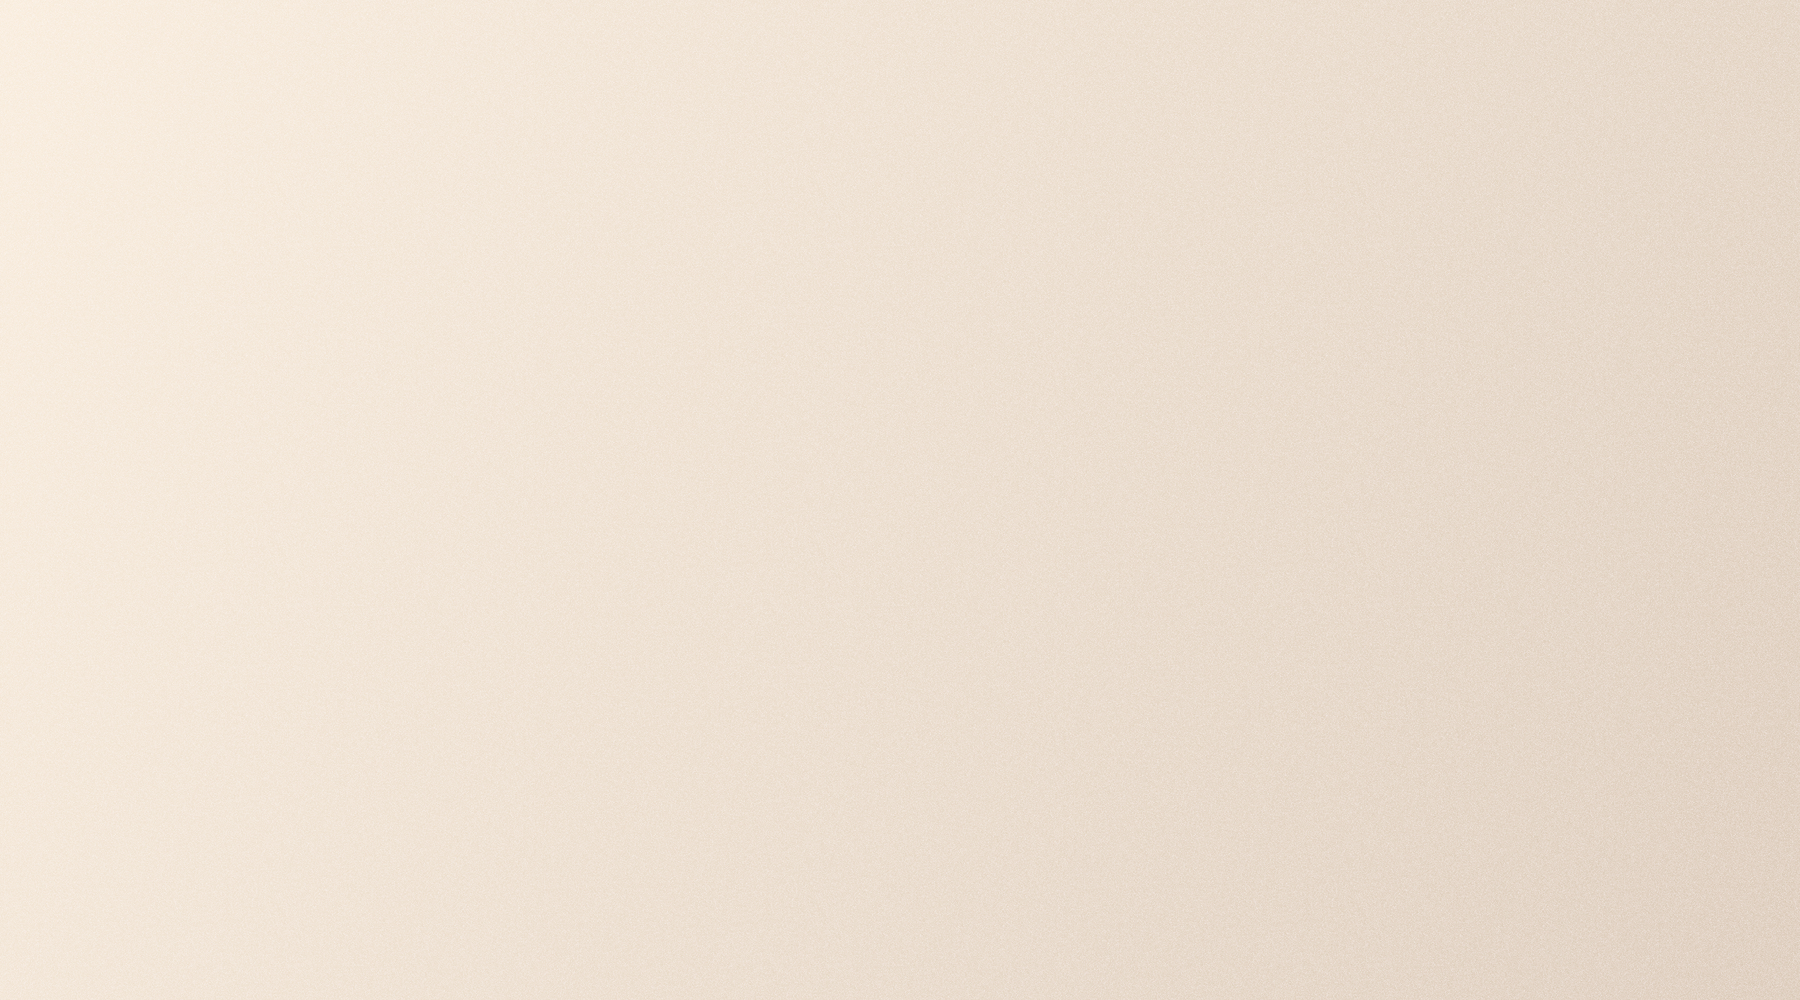
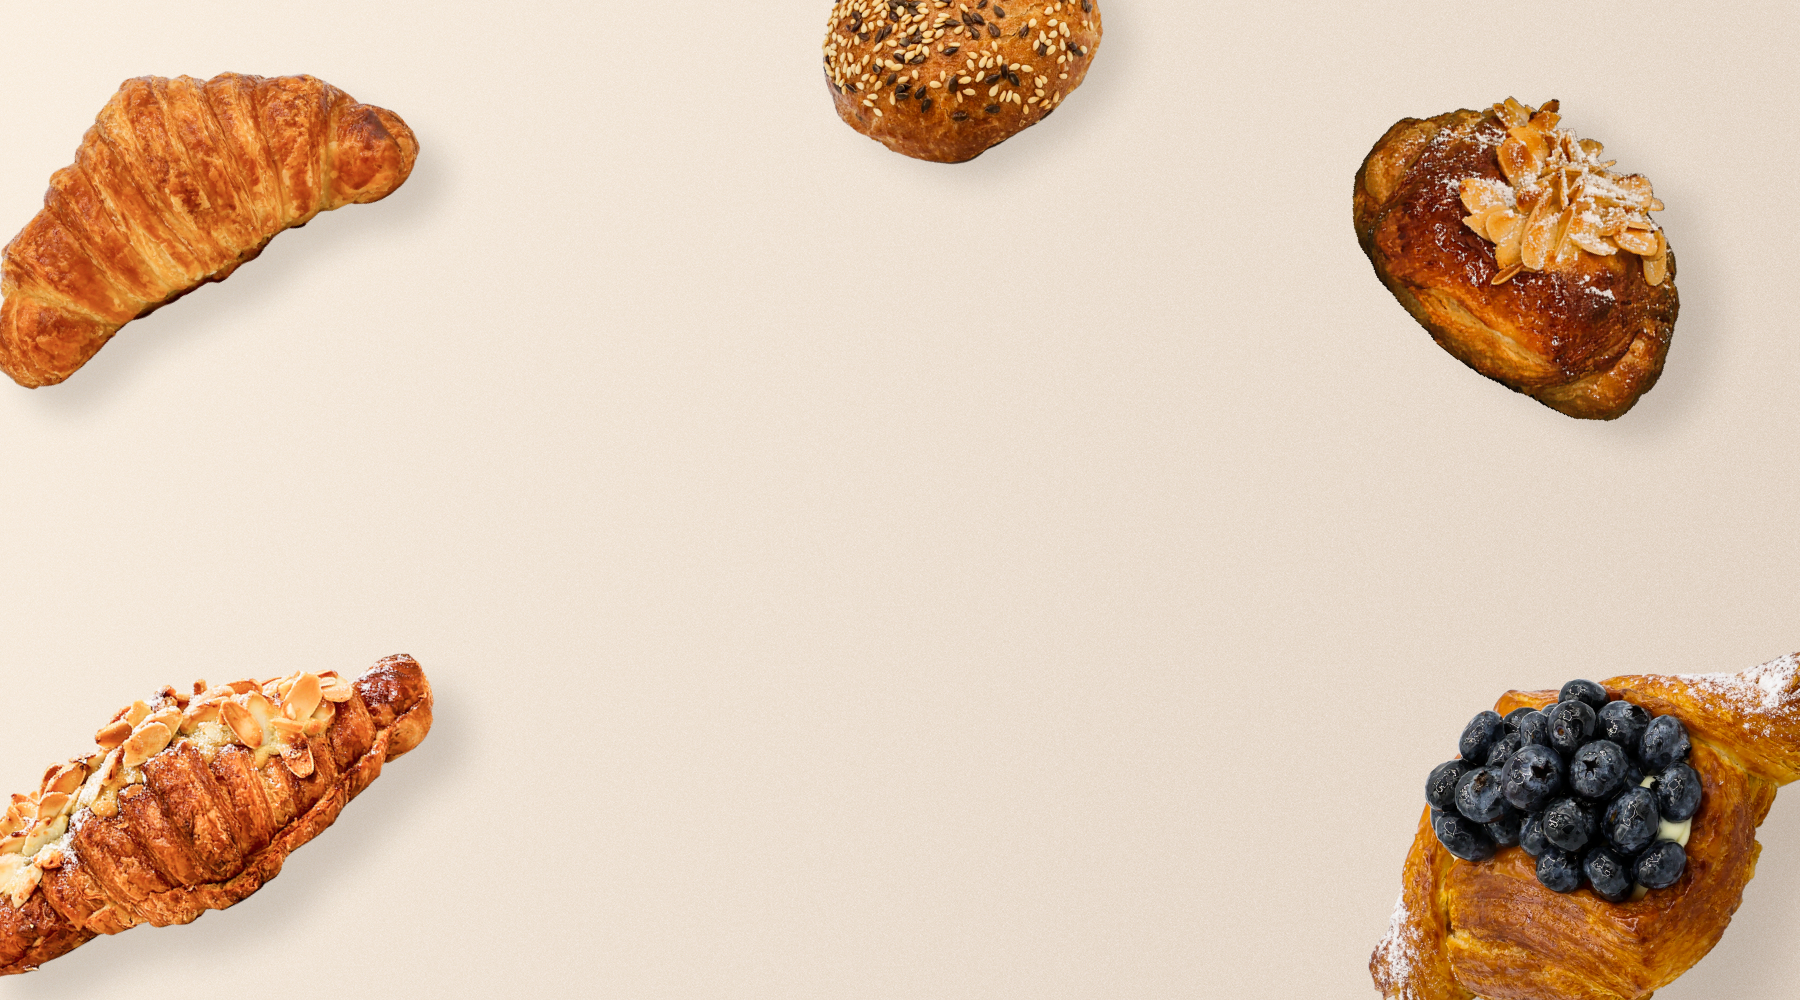
Updated Hero section background
Removed TODO comments

diff --git a/src/components/ProductsSection.vue b/src/components/ProductsSection.vue
@@ -19,6 +19,7 @@ import ProductCard from './ProductCard.vue'
 <style lang="scss" scoped>
 .products-section {
   padding: 96px 0;
+  overflow-x: hidden;
 
   &__list {
     display: flex;

diff --git a/src/components/HeroSection.vue b/src/components/HeroSection.vue
@@ -2,8 +2,6 @@
 import Header from './Header.vue'
 import ArrowSvg from './icons/ArrowSvg.vue'
 import SectionSubTitle from './SectionSubTitle.vue'
-
-// TODO:
 </script>
 
 <template>

diff --git a/src/components/Contacts.vue b/src/components/Contacts.vue
@@ -1,8 +1,6 @@
 <script setup lang="ts">
 import FacebookSvg from './icons/FacebookSvg.vue'
 import InstagramSvg from './icons/InstagramSvg.vue'
-
-// TODO:
 </script>
 
 <template>

diff --git a/src/components/InfoSection.vue b/src/components/InfoSection.vue
@@ -1,8 +1,6 @@
 <script setup lang="ts">
 import Contacts from './Contacts.vue'
 import SectionSubTitle from './SectionSubTitle.vue'
-
-// TODO:
 </script>
 
 <template>
